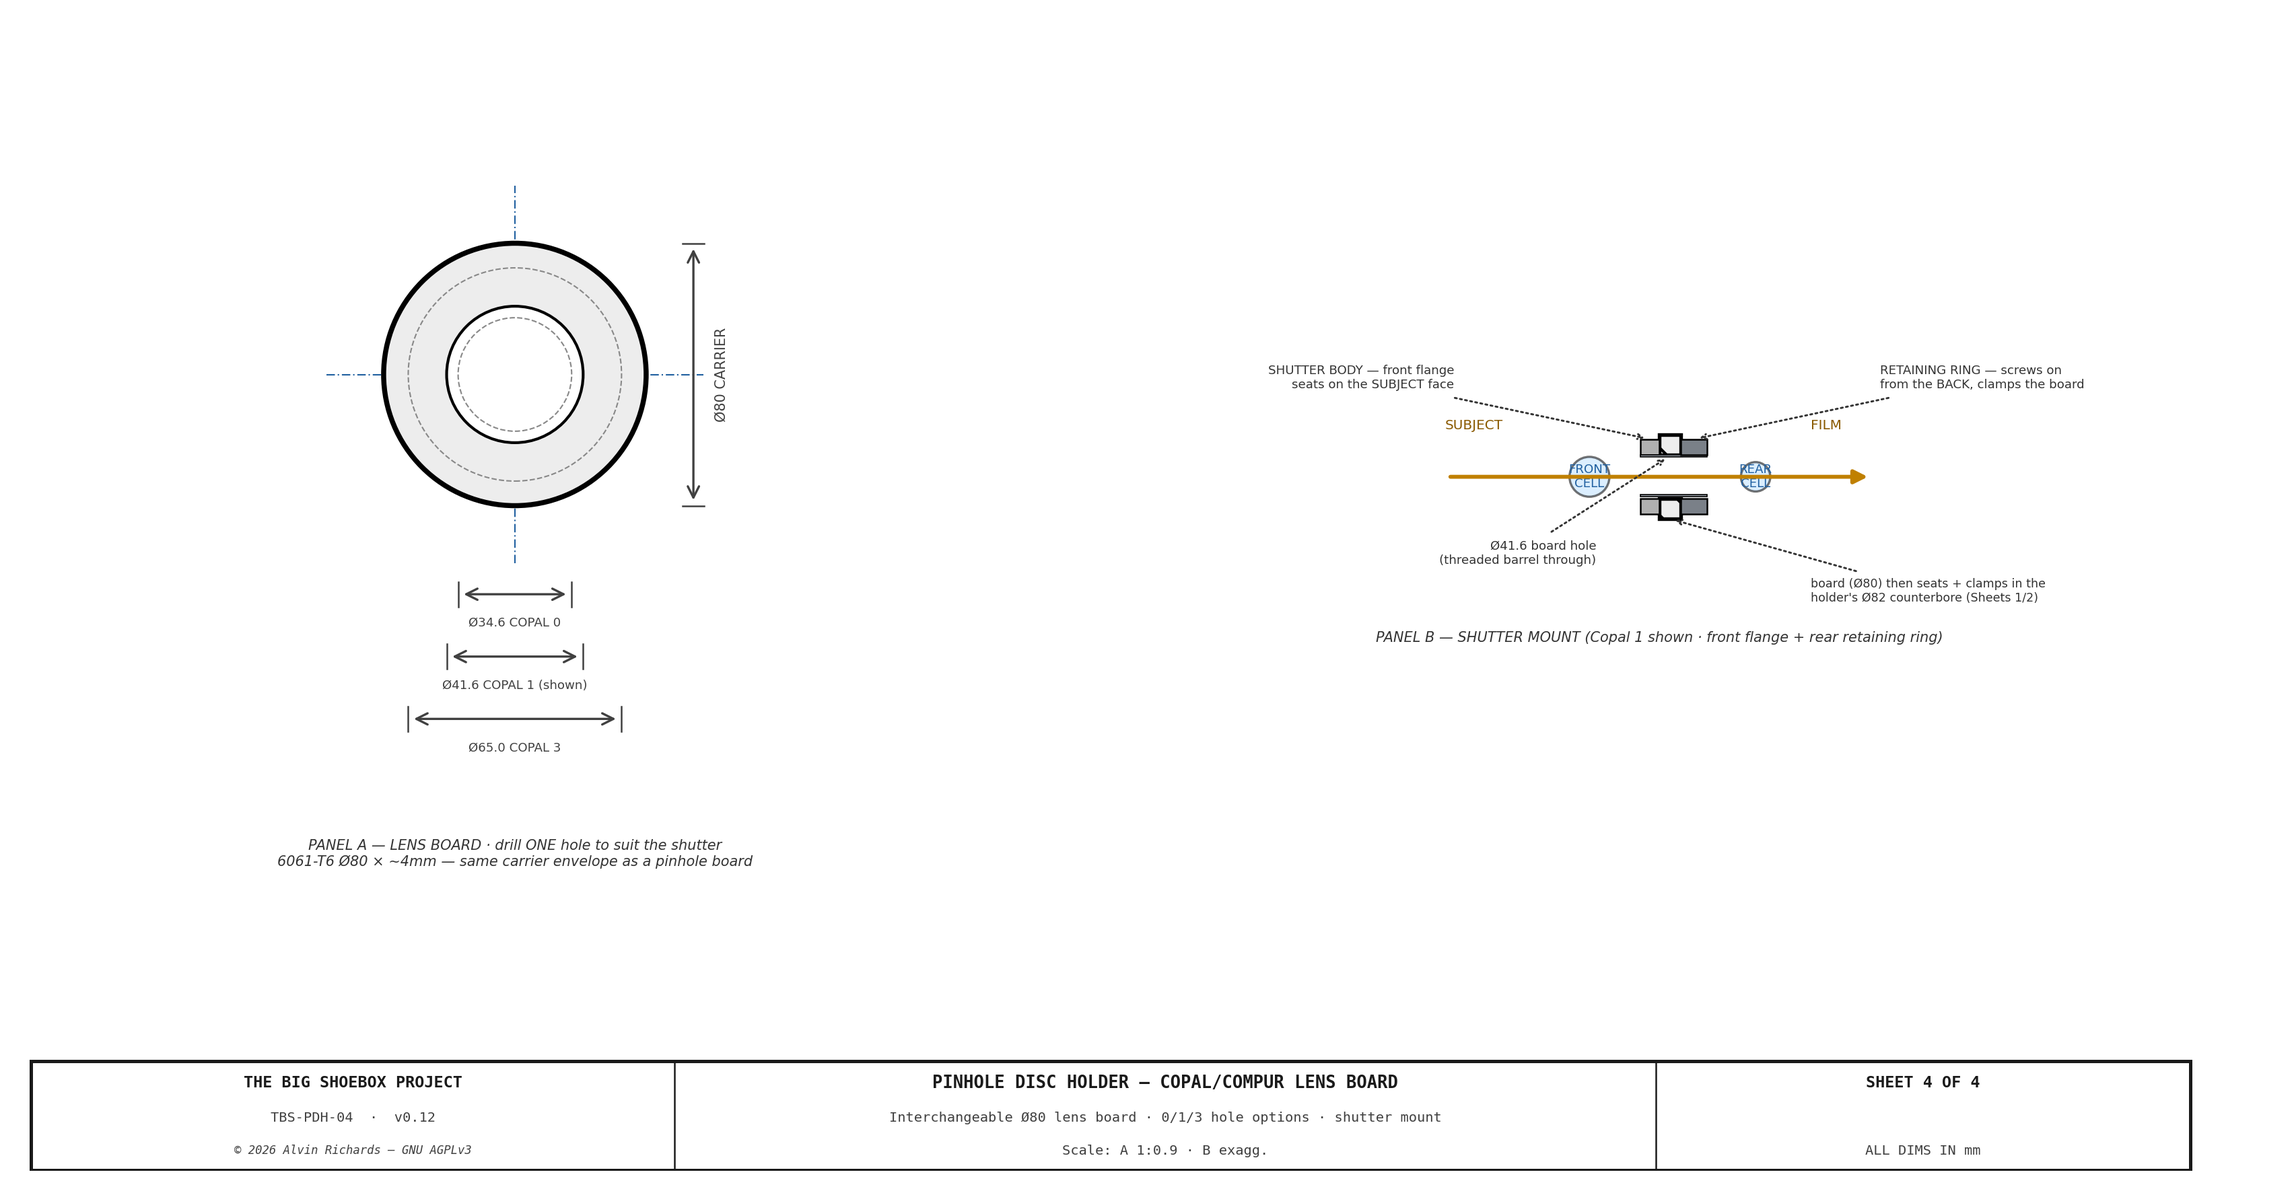
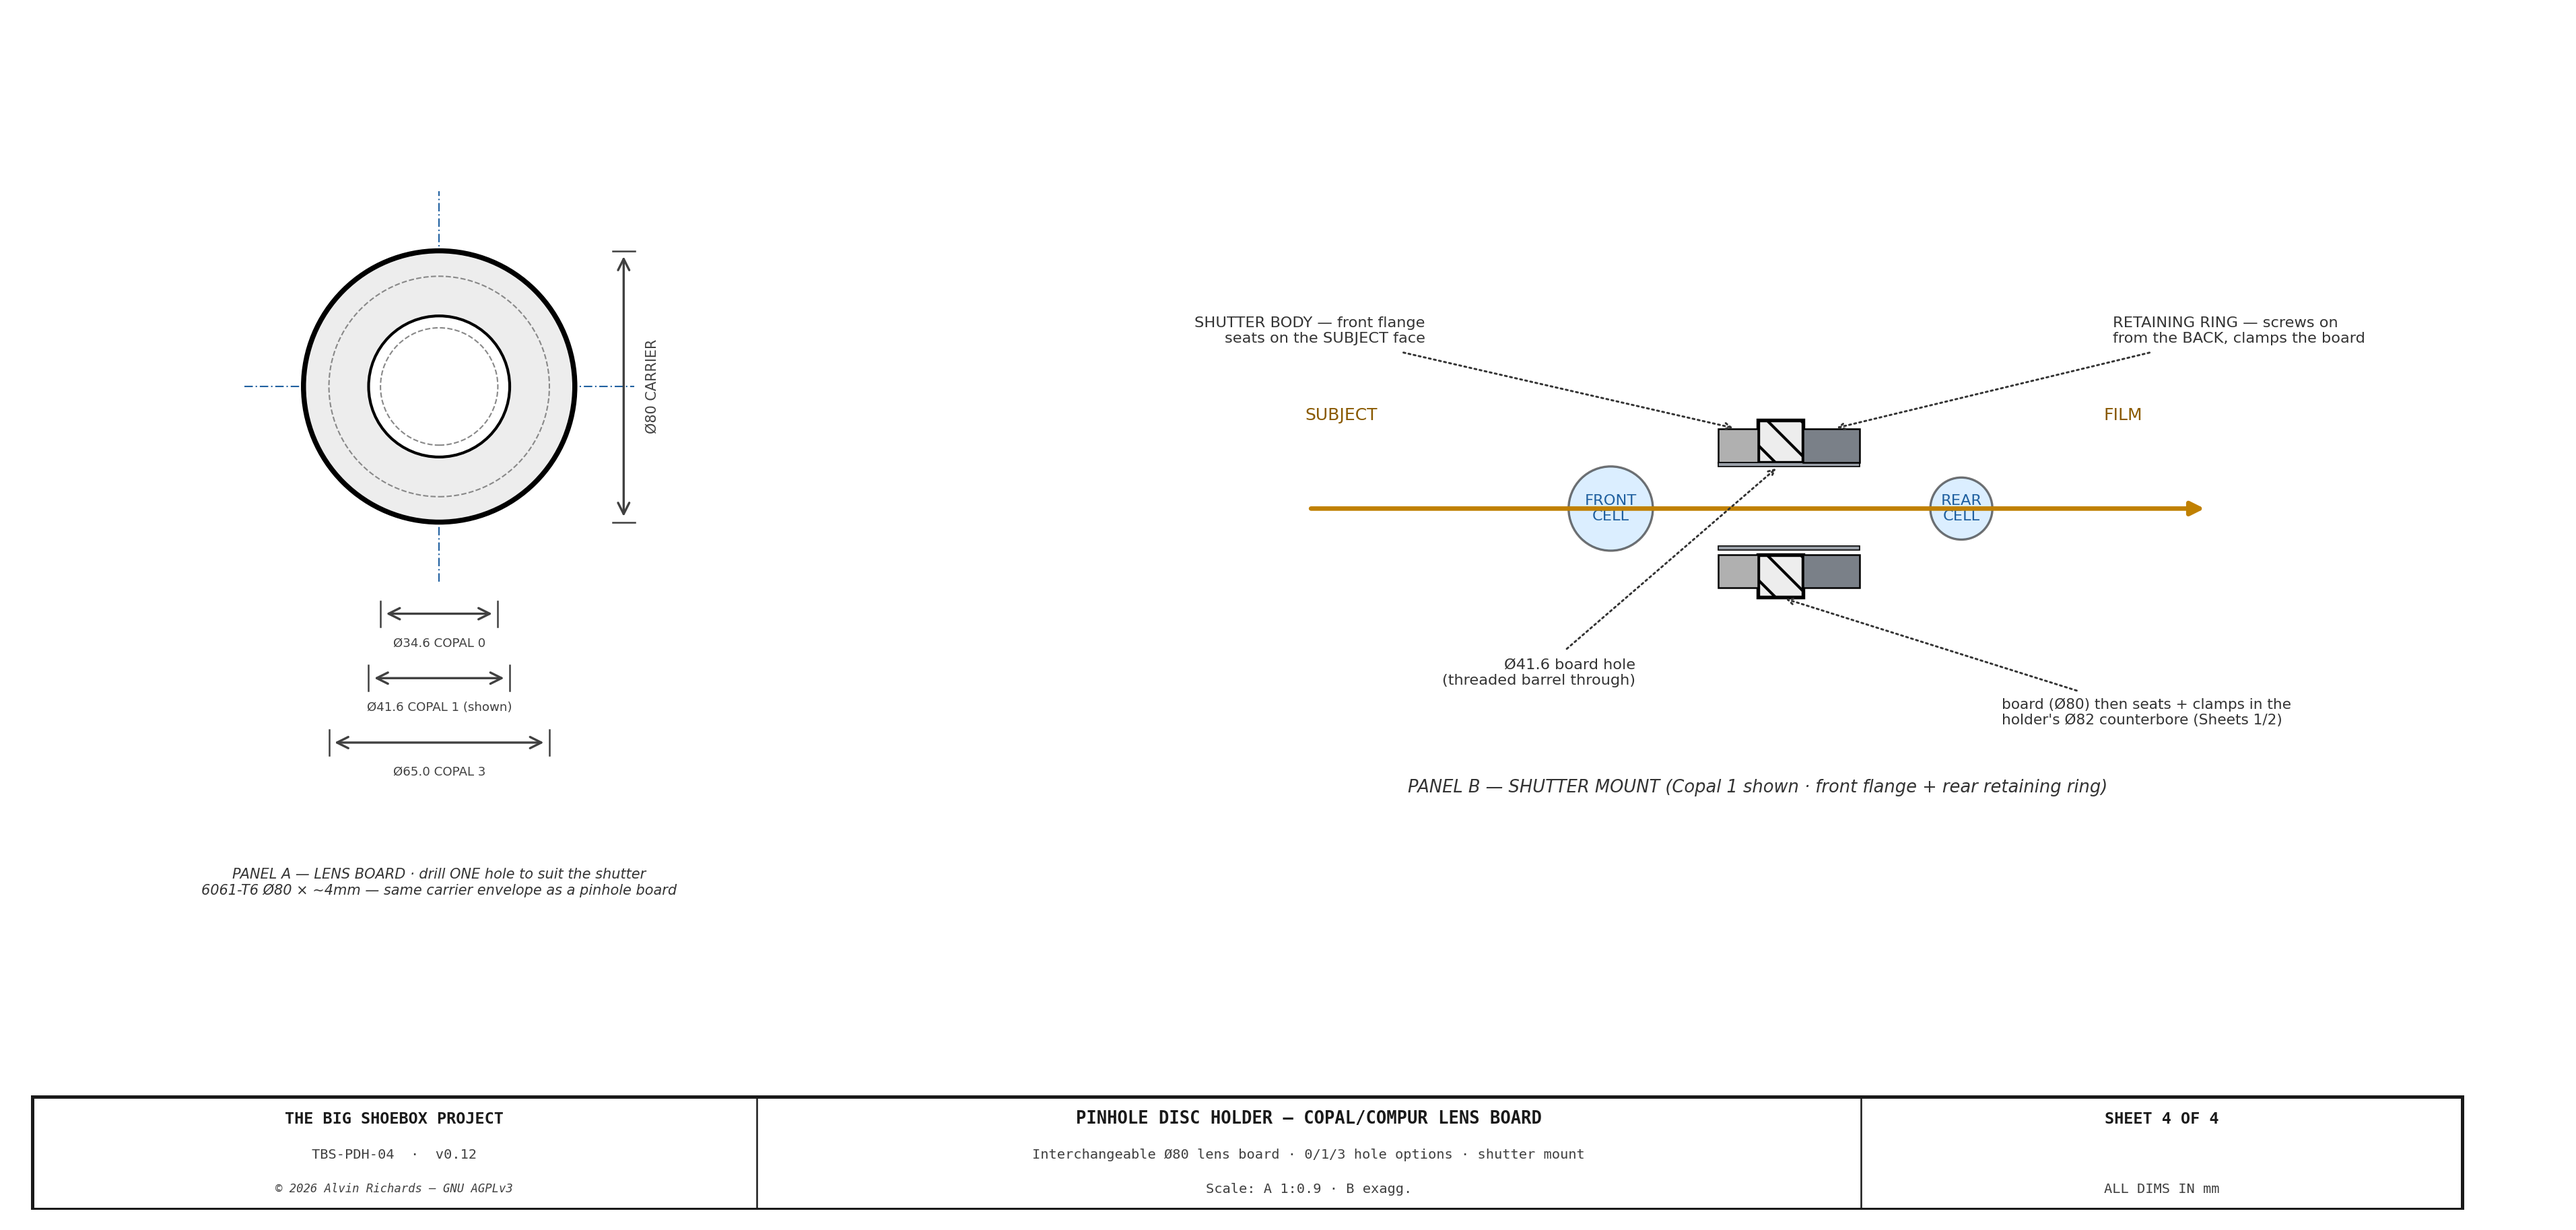
Disc holder: thumb screws to scale + labeled on Section A-A; enlarge Sheet 4 Panel B
Section A-A: redraw the thumb screws to scale (Ø6 shaft through the ring
into a ~10mm plate tap + Ø12 knurled head, was a bare centerline + an
oversized head) and label them. Sheet 4 Panel B (shutter mount): widen
the panel and raise the section scale ~50% with larger fonts for
legibility.

diff --git a/src/generators/generate_pinhole_disc_holder.py b/src/generators/generate_pinhole_disc_holder.py
@@ -113,7 +113,7 @@ def draw_sheet1():
     # Thin plate: axial (thickness) scale EXAGGERATED vs radial so the disc stack reads.
     def sx(mm): return mm * 2.7          # horizontal / axial (thickness) — exaggerated
     def sy(mm): return mm / 1.7          # vertical / radial — compressed
-    sw, sh = 520, 440
+    sw, sh = 520, 470
     axs.set_xlim(0, sw); axs.set_ylim(0, sh)
     ax0 = 170                            # scene face x
     axc = ax0 + sx(PDH_PLATE_T)          # camera face x
@@ -139,11 +139,12 @@ def draw_sheet1():
         y_lo, y_hi = ry + sgn * sy(PDH_RING_ID / 2), ry + sgn * sy(PDH_RING_OD / 2)
         axs.add_patch(mpatches.Rectangle((axc, min(y_lo, y_hi)), sx(PDH_RING_T), abs(y_hi - y_lo),
                       fc=C_ALUM, ec=C_OUT, lw=LW_MED, hatch='\\\\', zorder=7))
-        # thumb screw through ring into plate + knurled head
+        # thumb screw (M6) to scale: Ø6 shaft through the ring into a ~10mm plate tap + Ø12 knurled head
         ty = ry + sgn * sy(PDH_TS_PCD / 2)
-        axs.plot([axc + sx(PDH_RING_T) + sx(10), ax0 + sx(6)], [ty, ty], color=C_OUT, lw=1.8, zorder=9)
-        axs.add_patch(mpatches.Rectangle((axc + sx(PDH_RING_T), ty - sy(9)), sx(10), sy(18),
-                      fc='#404040', ec=C_OUT, lw=0.5, zorder=9))
+        axs.add_patch(mpatches.Rectangle((axc - sx(10), ty - sy(PDH_TS_D / 2)), sx(10) + sx(PDH_RING_T), sy(PDH_TS_D),
+                      fc=C_STEEL, ec=C_OUT, lw=0.6, zorder=9))                       # Ø6 shaft (tap + through ring)
+        axs.add_patch(mpatches.Rectangle((axc + sx(PDH_RING_T), ty - sy(6)), sx(9), sy(12),
+                      fc='#404040', ec=C_OUT, lw=0.5, zorder=9))                     # Ø12 knurled head
 
     # disc (thin — exaggerated) seated on the washer
     disc_x = seat_x + sx(PDH_WASHER_T)
@@ -172,6 +173,8 @@ def draw_sheet1():
            'ICP-03 RETAINING\nRING', fs=5.4, color=C_DIM, arrow_style='->', ha='left')
     leader(axs, ax0 + sx(PDH_PLATE_T / 2), ry - sy(60), lx, ry - 150,
            'ICP-01 FRONT PLATE', fs=5.4, color=C_DIM, arrow_style='->', ha='left')
+    leader(axs, axc + sx(PDH_RING_T) + sx(4.5), ry + sy(PDH_TS_PCD / 2), lx, ry + 200,
+           f'{PDH_TS_N}× M{PDH_TS_D} KNURLED THUMB SCREW\n@ Ø{PDH_TS_PCD} (through ring → plate tap)', fs=5.0, color=C_DIM, arrow_style='->', ha='left')
     axs.text((ax0 + axc) / 2, ry - rad - 60, 'SECTION A-A — axial ×2.7 / radial 1:1.7 (thickness exaggerated)', ha='center', fontsize=6.5, style='italic', color='#333')
 
     tb = fig.add_axes([0.03, 0.02, 0.94, 0.115]); tb.axis('off'); tb.set_xlim(0, 1); tb.set_ylim(0, 1)
@@ -377,7 +380,7 @@ def draw_sheet3():
 # SHEET 4 — Copal / Compur lens board (interchangeable carrier)
 # ══════════════════════════════════════════════════════════════════════════════
 def draw_sheet4():
-    fig, (axb, axsec) = plt.subplots(1, 2, figsize=(12, 6.0))
+    fig, (axb, axsec) = plt.subplots(1, 2, figsize=(13.5, 6.2), gridspec_kw={'width_ratios': [1, 1.55]})
     for ax in (axb, axsec):
         ax.set_aspect('equal'); ax.axis('off')
     fig.patch.set_facecolor('white')
@@ -405,10 +408,10 @@ def draw_sheet4():
     # ── Panel B: SECTION — how the Copal/Compur shutter is FIXED to the board ──
     # (front lens cell + shutter body flange on the SUBJECT face; threaded barrel through the hole;
     #  the retaining ring screws on from the FILM side and clamps the board — per S.K. Grimes.)
-    def sx(mm): return mm * 3.4
-    def sy(mm): return mm / 1.5
-    axsec.set_xlim(0, 720); axsec.set_ylim(0, 470)
-    ry = 245; bx = 330; bt = sx(4)
+    def sx(mm): return mm * 5.1
+    def sy(mm): return mm / 1.0
+    axsec.set_xlim(90, 790); axsec.set_ylim(60, 410)
+    ry = 235; bx = 430; bt = sx(4)
     hole = sy(PDH_LENS_COPAL1 / 2)
     flange = sy(PDH_LENS_COPAL1 / 2 + 15)         # shutter front flange / retaining-ring OD (> the hole)
     for sgn in (-1, 1):
@@ -424,16 +427,16 @@ def draw_sheet4():
     # front lens cell (subject) + rear lens cell (film) — schematic, smaller than the mount detail
     axsec.add_patch(mpatches.Circle((bx - sx(13), ry), sy(19), fc='#BFE0FF', ec=C_OUT, lw=0.8, alpha=0.55, zorder=3))
     axsec.add_patch(mpatches.Circle((bx + bt + sx(14), ry), sy(14), fc='#BFE0FF', ec=C_OUT, lw=0.8, alpha=0.55, zorder=3))
-    axsec.text(bx - sx(13), ry, 'FRONT\nCELL', fontsize=4.4, ha='center', va='center', color='#2060A0')
-    axsec.text(bx + bt + sx(14), ry, 'REAR\nCELL', fontsize=4.4, ha='center', va='center', color='#2060A0')
-    axsec.annotate('', xy=(bx + sx(40), ry), xytext=(bx - sx(40), ry), arrowprops=dict(arrowstyle='-|>', color='#C08000', lw=1.4))
-    axsec.text(bx - sx(40), ry + 30, 'SUBJECT', fontsize=4.8, color='#8a5a00', ha='left')
-    axsec.text(bx + sx(34), ry + 30, 'FILM', fontsize=4.8, color='#8a5a00', ha='right')
-    leader(axsec, bx - sx(1.7), ry + flange, bx - 130, ry + sy(PDH_DISC_OD / 2) + 36, 'SHUTTER BODY — front flange\nseats on the SUBJECT face', fs=4.4, color=C_DIM, arrow_style='->', ha='right')
-    leader(axsec, bx + bt / 2, ry + hole - sy(1), bx - 40, ry - sy(PDH_DISC_OD / 2) - 22, f'Ø{PDH_LENS_COPAL1} board hole\n(threaded barrel through)', fs=4.4, color=C_DIM, arrow_style='->', ha='right')
-    leader(axsec, bx + bt + sx(2.5), ry + flange, bx + 140, ry + sy(PDH_DISC_OD / 2) + 36, 'RETAINING RING — screws on\nfrom the BACK, clamps the board', fs=4.4, color=C_DIM, arrow_style='->', ha='left')
-    leader(axsec, bx + bt / 2, ry - sy(PDH_DISC_OD / 2), bx + 96, ry - sy(PDH_DISC_OD / 2) - 46, "board (Ø80) then seats + clamps in the\nholder's Ø82 counterbore (Sheets 1/2)", fs=4.2, color=C_DIM, arrow_style='->', ha='left')
-    axsec.text(bx, ry - sy(PDH_DISC_OD / 2) - 78, 'PANEL B — SHUTTER MOUNT (Copal 1 shown · front flange + rear retaining ring)', ha='center', fontsize=5, style='italic', color='#333')
+    axsec.text(bx - sx(13), ry, 'FRONT\nCELL', fontsize=5.4, ha='center', va='center', color='#2060A0')
+    axsec.text(bx + bt + sx(14), ry, 'REAR\nCELL', fontsize=5.4, ha='center', va='center', color='#2060A0')
+    axsec.annotate('', xy=(bx + sx(40), ry), xytext=(bx - sx(40), ry), arrowprops=dict(arrowstyle='-|>', color='#C08000', lw=1.6))
+    axsec.text(bx - sx(40), ry + 40, 'SUBJECT', fontsize=6.0, color='#8a5a00', ha='left')
+    axsec.text(bx + sx(34), ry + 40, 'FILM', fontsize=6.0, color='#8a5a00', ha='right')
+    leader(axsec, bx - sx(1.7), ry + flange, bx - 150, ry + sy(PDH_DISC_OD / 2) + 40, 'SHUTTER BODY — front flange\nseats on the SUBJECT face', fs=5.4, color=C_DIM, arrow_style='->', ha='right')
+    leader(axsec, bx + bt / 2, ry + hole - sy(1), bx - 55, ry - sy(PDH_DISC_OD / 2) - 34, f'Ø{PDH_LENS_COPAL1} board hole\n(threaded barrel through)', fs=5.4, color=C_DIM, arrow_style='->', ha='right')
+    leader(axsec, bx + bt + sx(2.5), ry + flange, bx + 160, ry + sy(PDH_DISC_OD / 2) + 40, 'RETAINING RING — screws on\nfrom the BACK, clamps the board', fs=5.4, color=C_DIM, arrow_style='->', ha='left')
+    leader(axsec, bx + bt / 2, ry - sy(PDH_DISC_OD / 2), bx + 110, ry - sy(PDH_DISC_OD / 2) - 52, "board (Ø80) then seats + clamps in the\nholder's Ø82 counterbore (Sheets 1/2)", fs=5.2, color=C_DIM, arrow_style='->', ha='left')
+    axsec.text(bx, ry - sy(PDH_DISC_OD / 2) - 88, 'PANEL B — SHUTTER MOUNT (Copal 1 shown · front flange + rear retaining ring)', ha='center', fontsize=6.2, style='italic', color='#333')
 
     tb = fig.add_axes([0.05, 0.03, 0.90, 0.11]); tb.axis('off'); tb.set_xlim(0, 1); tb.set_ylim(0, 1)
     title_block(tb, "SHEET 4 OF 4", drawing_title="PINHOLE DISC HOLDER — COPAL/COMPUR LENS BOARD",

diff --git a/RELEASE.md b/RELEASE.md
@@ -28,7 +28,7 @@ file** — a release must not ship without a changelog entry:
 - **Pinhole disc holder now takes large-format lenses; standard Ø600 plate retired (A2).** The interchangeable carrier grows Ø50→**Ø80** and the aperture Ø40→**Ø65** so the same compact holder takes a pinhole board OR a **Copal/Compur 0/1/3 lens board** (34.6/41.6/61.5mm holes; ref: Intrepid Camera Lens Explorer), with retention sized to carry a lens's weight (6mm seat, Ø100×6 ring, M6 thumb screws). This lets it **supersede the standard Ø600 interchangeable pinhole/lens plate** — retired `generate_plate_drawing.py` + its sheets, the `PLATE_OD/WALL_FRAME_T/PINHOLE_DISC_*` constants, and rewrote `pinhole-report.md` to the wall + front-board mount interface (focus for a lens moves to the film-plane depth rail). Front-board $305–$636. Reconciled the `parts.py` **"optics"** system to the pinhole-WALL interface only (wall-frame adapter + dark slide, $35–$70; retired the Ø600 plate's 8× M12 / backing plate / M52 ring, and fixed the pinhole double-count by moving the element to front-board) — grand total −$80/$118/$160. Overview + water .skp re-uploaded to Sketchfab; *construction + disc-holder .skp re-uploads still pending.*
 - **Pinhole disc holder — interactive 3D model + 4-bolt plate.** Built and uploaded the `pinhole-disc-holder` SketchUp model (Sketchfab uid `4ce663d3…`): a click Dynamic Component pulls the retaining ring + thumb screws out to reveal the interchangeable disc and the plate's four tapped holes; the ring bore tapers open toward the interior (the diverging light cone's exit), with clearances that remove orbit z-fighting. Simplified the plate mount to a **4-bolt pattern** (dropped the 2 registration dowels) — cascaded through the constants, 2D sheets, `parts.py`, report, dependency map and costing; front-board total now **$335–$726**.
 - **Disc-holder blueprint completed to buildable.** Added the container-wall interface and shop data the set was missing: the **wall-frame adapter** (Ø240×6 backing ring, 4× M6 into the corrugation, Ø120 aperture) drawn into `overview.skp` with its through-bolts; a new **Sheet 3** section through the container wall (corrugation → welded adapter → bolted plate → carrier/ring, with the light path); a new **Sheet 4** Copal/Compur lens board (real drilled bore + front-flange / rear-retaining-ring mount mechanism, ref: S.K. Grimes); and **CNC-shop tolerances** on the fabrication sheets. Moved the taps to Ø94 PCD (ring Ø110) so the Ø82 counterbore no longer crosses them. *overview/water/construction .skp re-send + Sketchfab re-upload still pending.*
-- **Copal #3 spec corrected + aperture opened to clear it.** Cross-checked the lens-board holes against [lensnotes.com](https://lensnotes.com/photography/lens-board/): Copal #3 is the standard **65.0mm** (matching Compur #3), not the 61.5mm taken from Intrepid. Since the front-plate aperture was Ø65 — exactly the #3 shutter barrel — grew it to **Ø72** (and coupled the neoprene washer bore to it, `PDH_WASHER_ID = PDH_APERTURE`, so it can't drift) so a Copal #3 barrel clears with margin. Cascaded through the constants, all 4 sheets (the tolerance block's bore/PCD literals are now constant f-exprs), `parts.py` (plate/washer/lens-board/CNC specs) and the report (fit table, tolerances, references). Confirmed against real Compur-shutter lens-board photos (front flange on the subject face, retaining ring threaded on from the back). Enlarged Sheet 1's Section A-A for legibility. *disc-holder .skp re-send pending.*
+- **Copal #3 spec corrected + aperture opened to clear it.** Cross-checked the lens-board holes against [lensnotes.com](https://lensnotes.com/photography/lens-board/): Copal #3 is the standard **65.0mm** (matching Compur #3), not the 61.5mm taken from Intrepid. Since the front-plate aperture was Ø65 — exactly the #3 shutter barrel — grew it to **Ø72** (and coupled the neoprene washer bore to it, `PDH_WASHER_ID = PDH_APERTURE`, so it can't drift) so a Copal #3 barrel clears with margin. Cascaded through the constants, all 4 sheets (the tolerance block's bore/PCD literals are now constant f-exprs), `parts.py` (plate/washer/lens-board/CNC specs) and the report (fit table, tolerances, references). Confirmed against real Compur-shutter lens-board photos (front flange on the subject face, retaining ring threaded on from the back). Legibility passes: enlarged Sheet 1's Section A-A and drew its thumb screws to scale (Ø6 shaft into a ~10mm plate tap + Ø12 knurled head, now labeled), and enlarged Sheet 4's shutter-mount section ~50%. *disc-holder .skp re-send pending.*
 
 - **Dimension-label units standardized — every length carries `mm`.** Promoted the ad-hoc mm
   convention to a **HARD RULE** in CLAUDE.md (Drawing Style Conventions): every length dimension label
